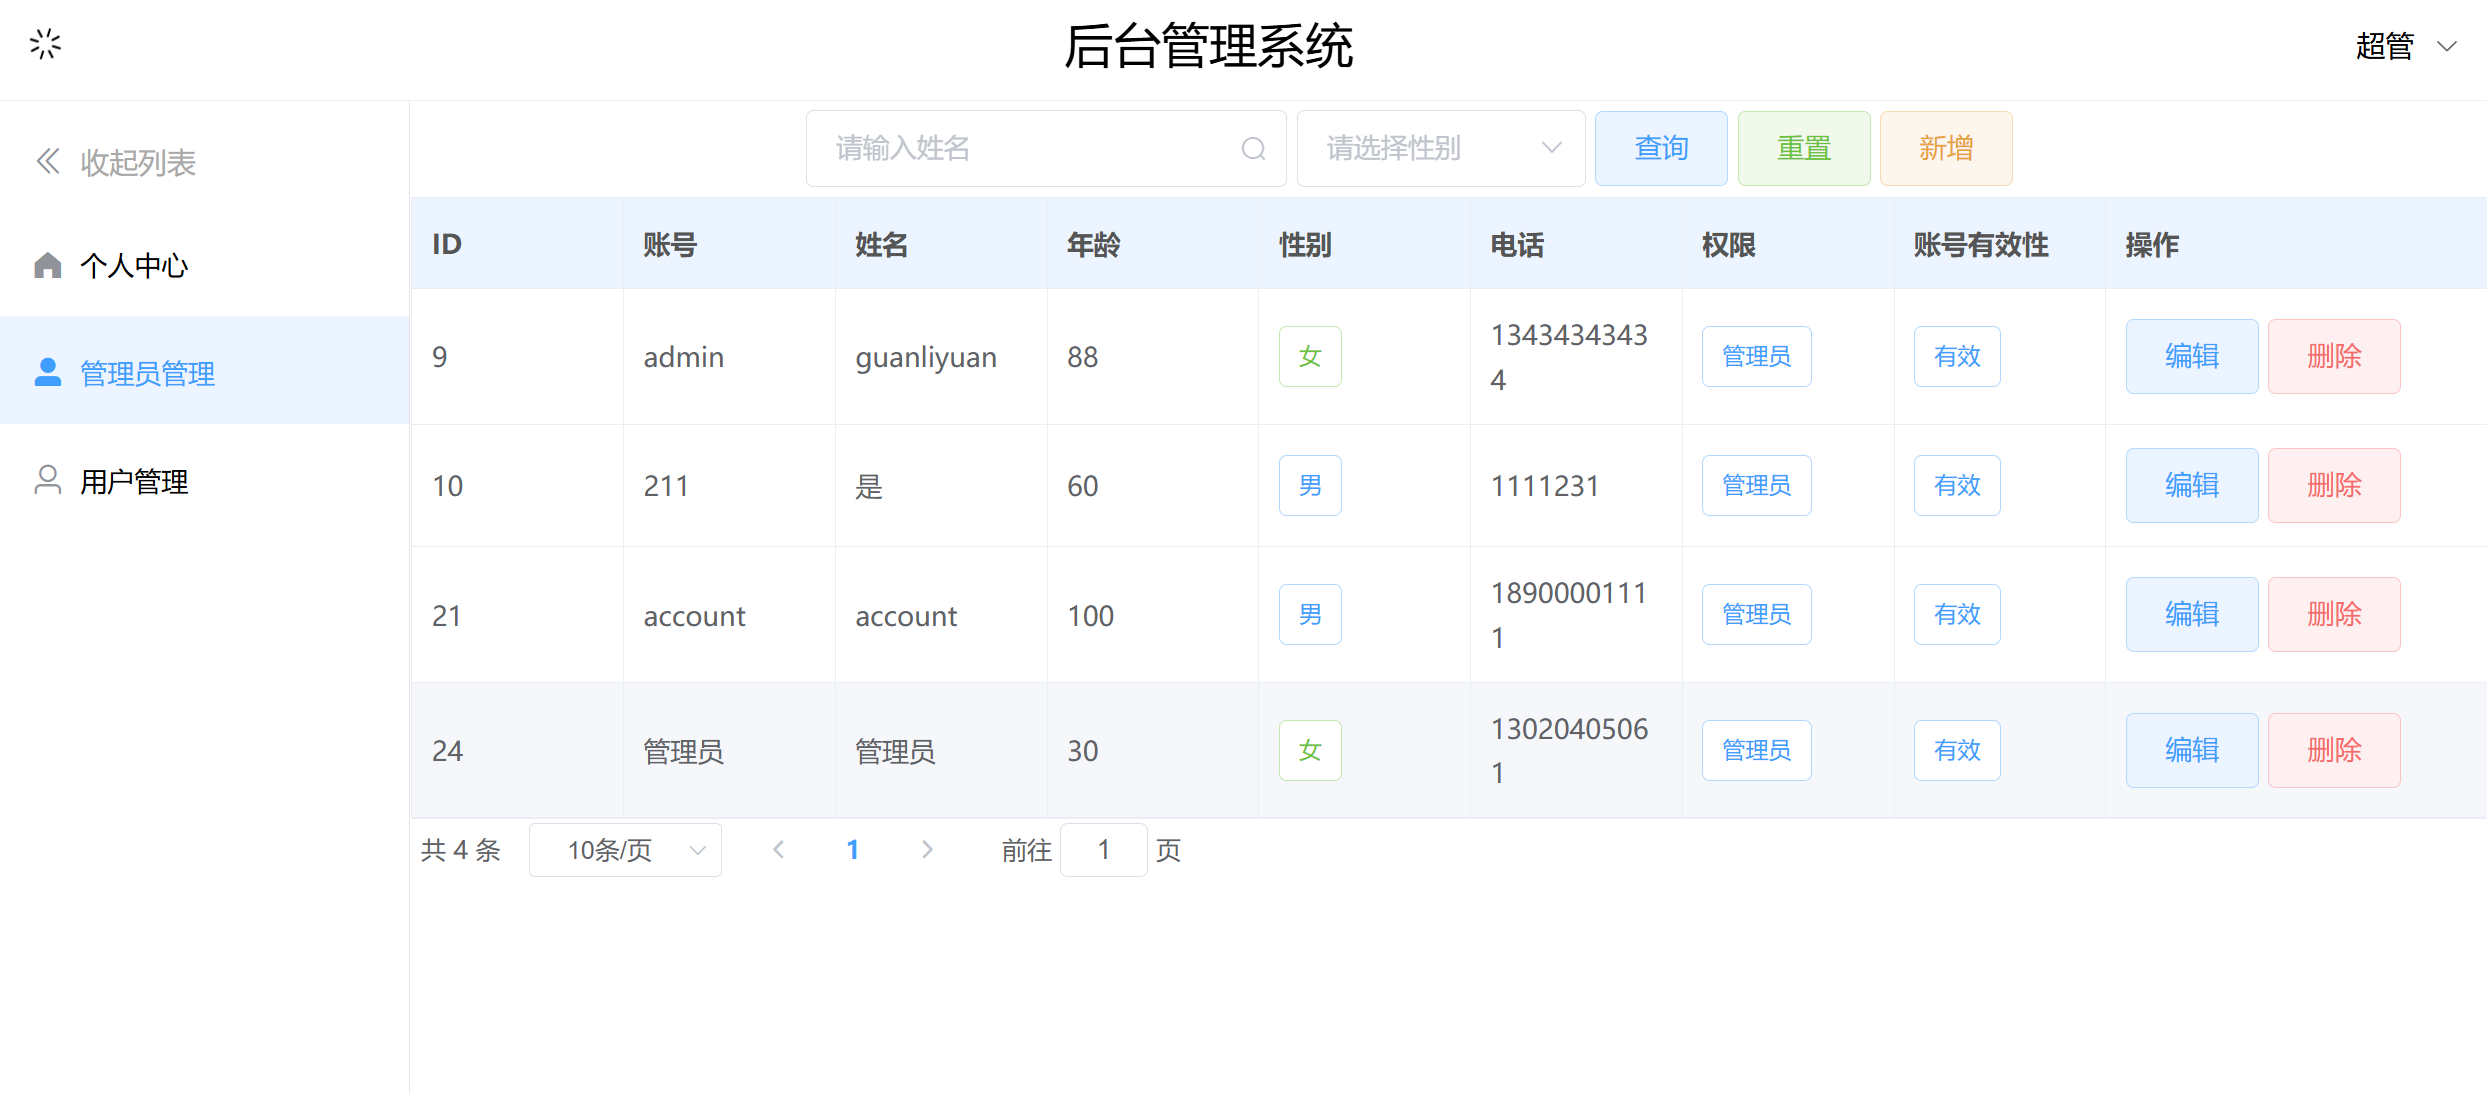
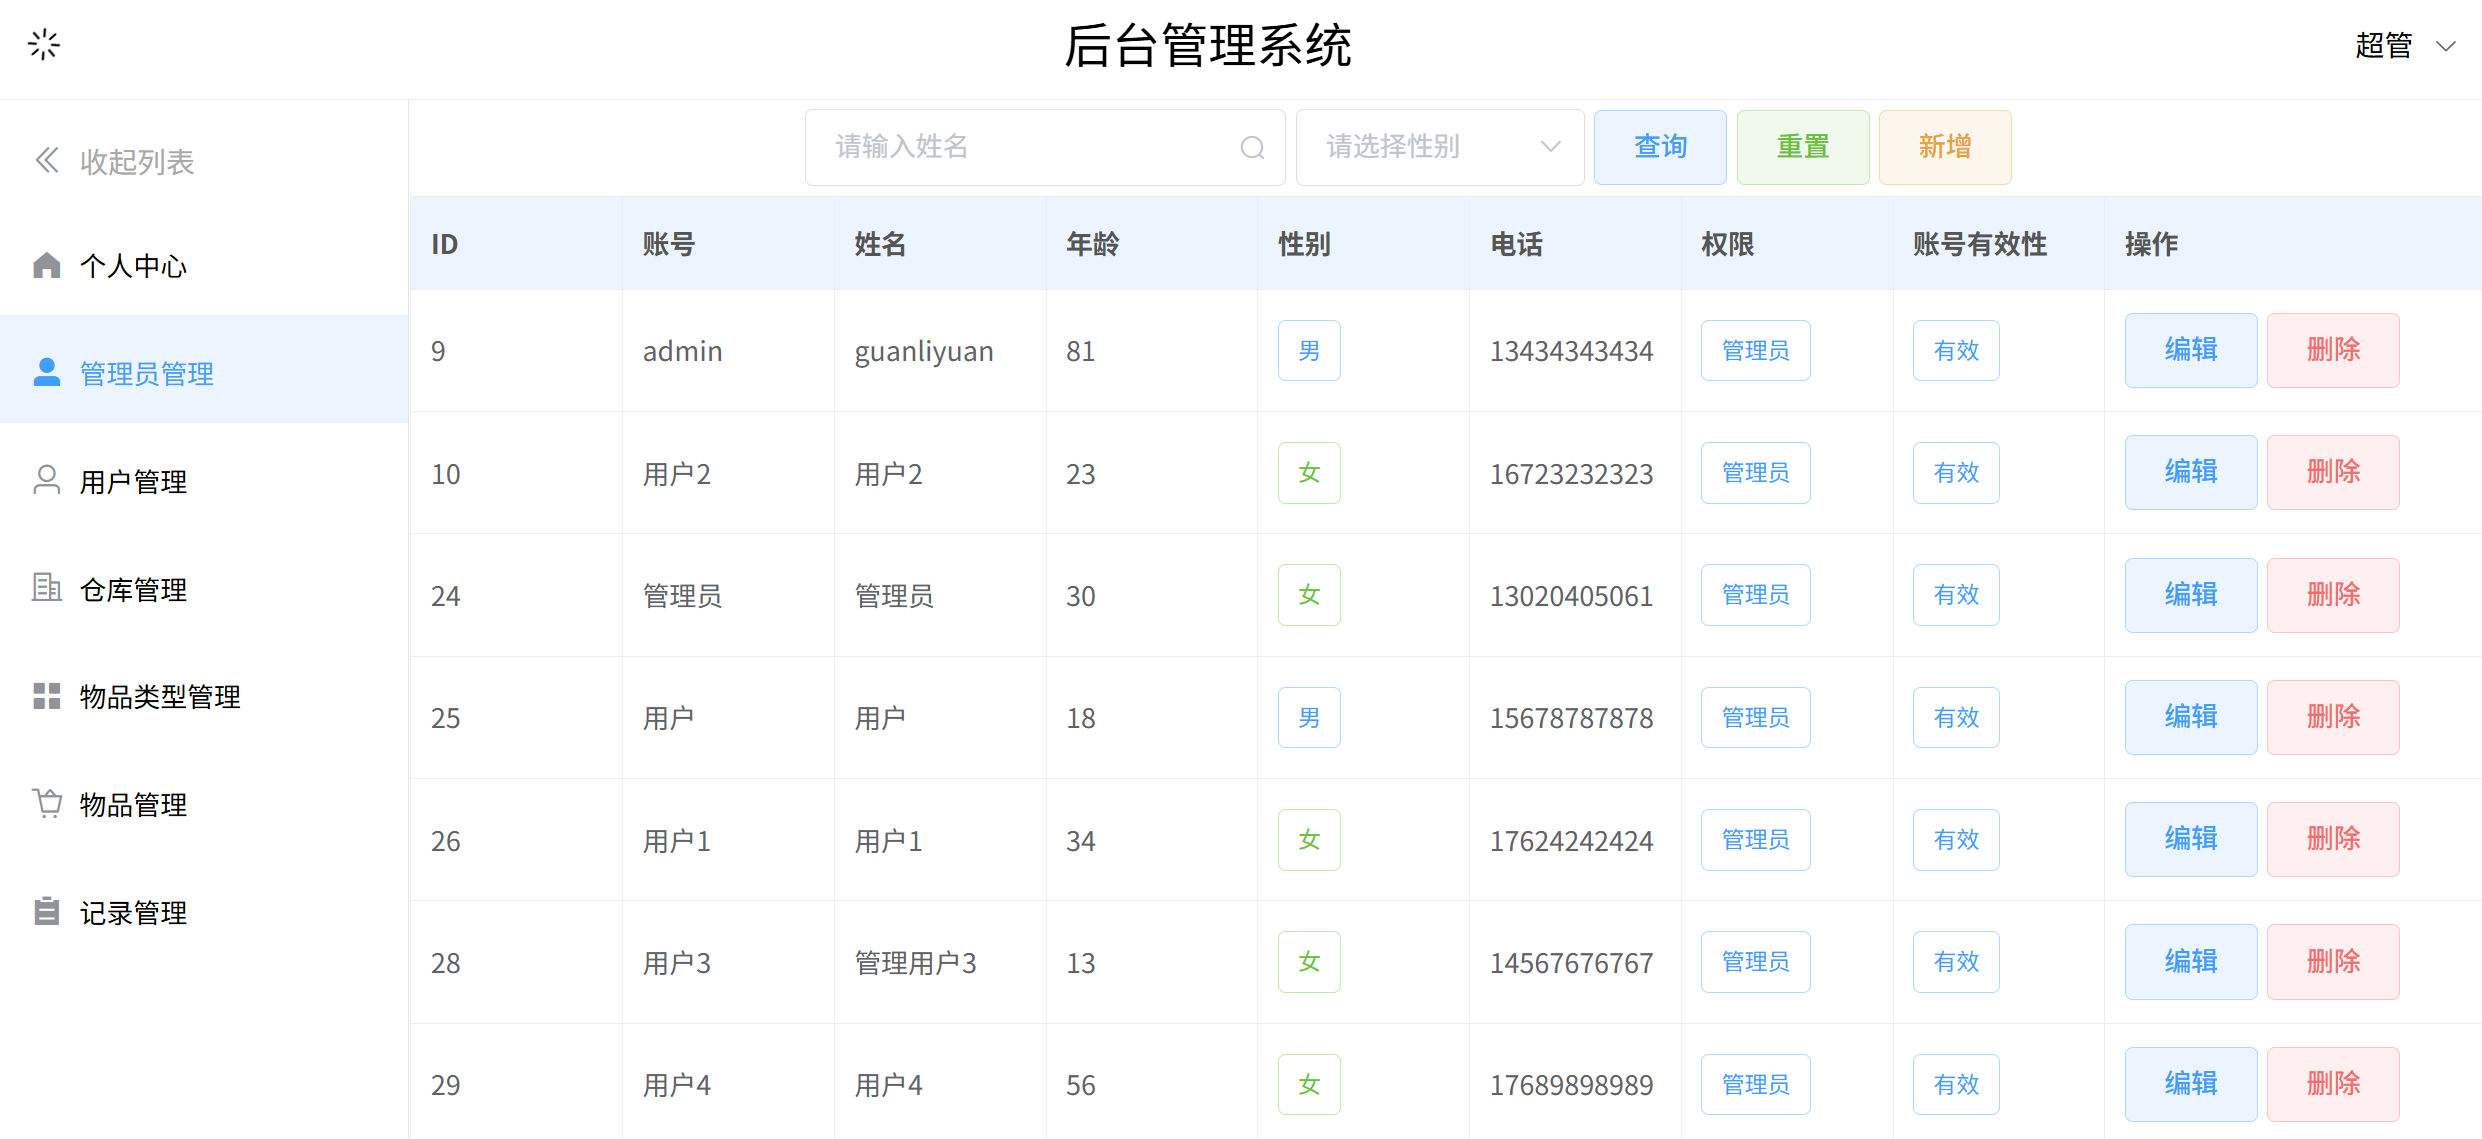
add normal user register; main code complete; adjust introduction file and pictures

diff --git a/storehouse-frontend/src/register/Register.vue b/storehouse-frontend/src/register/Register.vue
@@ -1,0 +1,211 @@
+<script>
+export default{
+  name:'Register',
+
+  data(){
+    let checkAge = (rule, value, callback) => {
+      if(value>150) {
+        callback(new Error('年龄太大'));
+      }
+      else{
+        callback();
+      }
+    }
+
+    let checkAccount = (rule, value, callback) => {
+      if(this.form.id){
+        return callback();
+      }
+      this.$axios.get(this.$httpUrl + "/user/findByAccount?account=" + this.form.account).then(res => res.data).then(res => {
+        if(res.code != 200){
+          callback();
+        }
+        else {
+          callback(new Error('账号已存在'));
+        }
+      })
+    }
+
+    return {
+      confirm_disabled: false,
+      form:{
+        id: '',
+        account:'',
+        name:'',
+        password:'',
+        age:'',
+        gender:'',
+        phone:'',
+        roleId: '2'
+      },
+      rules: {
+        account: [
+          {required: true, message: '请输入账号', trigger: 'blur'},
+          {min: 1, max: 12, message: '长度在 1 到 12 个字符', trigger: 'blur'},
+          {validator: checkAccount, trigger: 'blur'}
+        ],
+        name: [
+          { required: true, message: '请输入姓名', trigger: 'blur' },
+          { min: 1, max: 12, message: '长度在 1 到 12 个字符', trigger: 'blur' }
+        ],
+        password: [
+          { required: true, message: '请输入密码', trigger: 'blur' },
+          { min: 3, max: 12, message: '长度在 3 到 12 个字符', trigger: 'blur' }
+        ],
+        age: [
+          { required: true, message: '请输入年龄', trigger: 'blur' },
+          { min: 1, max: 3, message: '长度在 1 到 3 位', trigger: 'blur' },
+          { pattern: /^([1-9][0-9]*){1,3}$/, message: '请输入正确的年龄', trigger: 'blur' },
+          { validator:checkAge, trigger: 'blur' }
+        ],
+        gender: [
+          { required: true, message: '请选择性别', trigger: 'blur' }
+        ],
+        phone: [
+          { required: true, message: '请输入电话', trigger: 'blur' },
+          { pattern: /^1[3|4|5|6|7|8|9][0-9]\d{8}$/, message: '请输入正确的电话', trigger: 'blur' }
+        ]
+      },
+    }
+  },
+
+  methods: {
+    confirm(){
+      this.confirm_disabled = true;
+      this.$refs.form.validate((valid) => {
+        if (valid) {
+          this.$axios.post(this.$httpUrl+'/user/save',this.form).then(res=>res.data).then(res=>{
+            if(res.code == 200){
+              this.$message({
+                message: '新增用户成功，自动跳转到登录页面',
+                type: 'success'
+              });
+
+              this.form.id = '';
+              this.form.account = '';
+              this.form.name = '';
+              this.form.password = '';
+              this.form.age = '';
+              this.form.gender = '';
+              this.form.phone = '';
+              this.form.roleId = '2';
+
+              this.$router.replace('/')
+            }
+            else{
+              this.confirm_disabled = false;
+              alert('新增用户失败，请检查后端');
+              return false;
+            }
+          })
+        }
+        else {
+          this.confirm_disabled = false;
+          alert('新增用户失败，请检查输入');
+          return false;
+        }
+      });
+    },
+
+    jumpLogin(){
+      this.$router.replace('/');
+    }
+
+  }
+}
+
+</script>
+
+<template>
+  <div class="loginbody">
+    <div class="logindiv">
+      <div class="logincontent">
+        <h1 class="logintitle">普通用户注册</h1>
+
+        <el-form ref="form" :rules="rules" :model="form" label-width="100px">
+          <el-form-item label="账号：" prop="account">
+            <el-col :span="18">
+              <el-input v-model="form.account"></el-input>
+            </el-col>
+          </el-form-item>
+          <el-form-item label="名字：" prop="name">
+            <el-col :span="18">
+              <el-input v-model="form.name"></el-input>
+            </el-col>
+          </el-form-item>
+          <el-form-item label="密码：" prop="password">
+            <el-col :span="18">
+              <el-input v-model="form.password"></el-input>
+            </el-col>
+          </el-form-item>
+          <el-form-item label="年龄：" prop="age">
+            <el-col :span="18">
+              <el-input v-model="form.age"></el-input>
+            </el-col>
+          </el-form-item>
+          <el-form-item label="性别：" prop="gender">
+            <el-radio-group v-model="form.gender">
+              <el-radio label="1">男</el-radio>
+              <el-radio label="0">女</el-radio>
+            </el-radio-group>
+          </el-form-item>
+          <el-form-item label="电话：" prop="phone">
+            <el-col :span="18">
+              <el-input v-model="form.phone"></el-input>
+            </el-col>
+          </el-form-item>
+          <el-form-item>
+            <el-button style="width: 225px" type="primary" @click="confirm" :disabled="confirm_disabled">确 定</el-button>
+          </el-form-item>
+        </el-form>
+
+        <p @click="jumpLogin" class="mylink">已有账号？点此回到登录页面</p>
+      </div>
+    </div>
+  </div>
+</template>
+
+<style scoped>
+  .loginbody{
+    top: 0;
+    position: absolute;
+    width: 100%;
+    height: 100%;
+    background-color: #ecf5ff;
+  }
+
+  .logindiv{
+    position: absolute;
+    top: 34%;
+    left: 53%;
+    margin-top: -200px;
+    margin-left: -250px;
+    width: 450px;
+    height: 600px;
+    background-color: #fff;
+    border-radius: 5%;
+  }
+
+  .logincontent{
+    position: absolute;
+    width: 400px;
+    height: 250px;
+    top: 25px;
+    left: 25px;
+  }
+
+  .logintitle{
+    margin: 20px 0;
+    text-align: center;
+  }
+
+  .mylink{
+    margin-left: 99px;
+    font-size: 17.5px;
+  }
+
+  .mylink:hover{
+    color: blue;
+    cursor: pointer;
+  }
+</style>

diff --git a/storehouse-frontend/src/login/Login.vue b/storehouse-frontend/src/login/Login.vue
@@ -45,6 +45,10 @@
         });
       },
 
+      jumpRegister(){
+        this.$router.replace('/Register')
+      }
+
     }
   }
 
@@ -55,6 +59,7 @@
     <div class="logindiv">
       <div class="logincontent">
         <h1 class="logintitle">登录到系统</h1>
+
         <el-form :model="loginForm" label-width="100px"
                  :rules="rules" ref="loginForm">
           <el-form-item label="账号" prop="account" style="margin-left: 5px">
@@ -66,16 +71,18 @@
                       show-password autocomplete="off" size="small"
                       @keyup.enter.native="confirm"></el-input>
           </el-form-item>
-          <el-form-item style="margin-left: 62px">
-            <el-button type="primary" @click="confirm" :disabled="confirm_disabled">确 定</el-button>
+          <el-form-item style="margin-left: 5px">
+            <el-button style="width: 200px" type="primary" @click="confirm" :disabled="confirm_disabled">确 定</el-button>
           </el-form-item>
         </el-form>
+
+        <p @click="jumpRegister" class="mylink">还没有账号？点此注册普通用户账号</p>
       </div>
     </div>
   </div>
 </template>
 
-<style>
+<style scoped>
   .loginbody{
     top: 0;
     position: absolute;
@@ -91,7 +98,7 @@
     margin-top: -200px;
     margin-left: -250px;
     width: 450px;
-    height: 330px;
+    height: 350px;
     background-color: #fff;
     border-radius: 5%;
   }
@@ -107,5 +114,15 @@
   .logintitle{
     margin: 20px 0;
     text-align: center;
+  }
+
+  .mylink{
+    margin-left: 105px;
+    font-size: 12.5px;
+  }
+
+  .mylink:hover{
+    color: blue;
+    cursor: pointer;
   }
 </style>

diff --git a/storehouse-frontend/src/router/index.js b/storehouse-frontend/src/router/index.js
@@ -7,6 +7,11 @@ const routes = [
         component: () => import('../login/Login')
     },
     {
+        path: '/Register',
+        name: '注册',
+        component: () => import('../register/Register')
+    },
+    {
         path: '/Index',
         name: '主页',
         component: () => import('../background/Index'),

diff --git a/storehouse-frontend/src/usercenter/DataUtils.vue b/storehouse-frontend/src/usercenter/DataUtils.vue
@@ -73,7 +73,7 @@
   </div>
 </template>
 
-<style>
+<style scoped>
   .split{
     animation: shark 1s step-end infinite;
     vertical-align: center;

diff --git a/storehouse-frontend/src/usercenter/Center.vue b/storehouse-frontend/src/usercenter/Center.vue
@@ -84,7 +84,7 @@
   </div>
 </template>
 
-<style>
+<style scoped>
   .my-content {
     background: #ecf5ff;
     min-width: 90px;

diff --git a/README.md b/README.md
@@ -1,13 +1,18 @@
 ### 项目说明
-基于网上资料学习后，创建的一个前后端分离的后台管理系统项目，前端使用Vue框架，后端使用SpringBoot框架，数据库使用MySQL
+基于学习，复现并改进的一个前后端分离的后台管理系统项目，前端使用Vue框架，后端使用SpringBoot框架，数据库使用MySQL
 
 ### 项目预览
 <img alt="login" src="./display-image/login.png" style="width: 800px; height: 400px">
-<img alt="user-center" src="./display-image/index.png" style="width: 800px; height: 400px">
+<img alt="register" src="./display-image/register.png" style="width: 800px; height: 400px">
+<img alt="user-center-superadmin" src="./display-image/index1.png" style="width: 800px; height: 400px">
+<img alt="user-center-admin" src="./display-image/index2.png" style="width: 800px; height: 400px">
+<img alt="user-center-normaluser" src="./display-image/index3.png" style="width: 800px; height: 400px">
 <img alt="admin-manage" src="./display-image/adminmanage.png" style="width: 800px; height: 400px">
 <img alt="user-manage" src="./display-image/usermanage.png" style="width: 800px; height: 400px">
-<img alt="add-or-modify-user" src="./display-image/addormod.png" style="width: 800px; height: 400px">
-<img alt="logout" src="./display-image/logout.png" style="width: 800px; height: 400px">
+<img alt="storehouse-manage" src="./display-image/storagemanage.png" style="width: 800px; height: 400px">
+<img alt="goods-type-manage" src="./display-image/goodstypemanage.png" style="width: 800px; height: 400px">
+<img alt="goods-manage" src="./display-image/goodsmanage.png" style="width: 800px; height: 400px">
+<img alt="record-manage" src="./display-image/recordmanage.png" style="width: 800px; height: 400px">
 
 ### 项目技术
 前端：
@@ -26,23 +31,33 @@
 
 ### 已实现功能
 - 用户登录
+- 普通用户注册
+- 登录注册跳转
 - 用户登出，有确认弹窗
+
 - 根据用户信息，显示用户中心
 - 用户中心显示当前时间
+
 - 根据用户权限，动态显示侧边栏用户管理功能
 - 侧边栏收起展开
+
 - 超级管理员的管理员管理功能，超级管理员和管理员的普通用户管理功能
-- 用户搜索查询、条件查询以及查询重置
-- 已查询出的用户数据的分页管理
-- 新建用户、编辑已有用户，有弹窗
-- 删除已有用户，有确认提示
+- 超级管理员和管理员的仓库管理、物品类型管理功能
+- 所有用户的物品管理、记录管理功能
+- 优化权限控制，普通用户只能查看物品和自己的记录，管理员以上才能对物品和记录进行增删操作
+
+- 管理内容的搜索查询、条件查询以及查询重置
+- 已查询出的数据的分页管理
+- 增加管理内容
+- 删除管理内容，有确认提示
+
+- 物品管理的出入库操作
+- 物品管理关联记录管理的出入库记录操作
 
 ### 待实现功能
-未来可能实现的功能：
-- 普通用户注册界面
-- 仓库管理或其他内容管理
+想实现的功能都大致完成了，后续可能将项目部署到服务器上，并配置公网访问途径
 
-### 下载运行
+### 本地部署
 
 本项目使用IDEA进行后端开发，WebStorm进行前端开发；后端使用Maven 3.8.8进行包管理，前端使用node版本为18.20.6
 
@@ -67,6 +82,8 @@ npm i vuex@3.0.0
 ```
 
 ### 其他
-项目的样式还需要进一步调整
+正在整理开发流程、前后端接口等信息，后续也许会上传总结文档
 
 为方便上传，前后端子项目的.git目录已经删除
+
+由于完整文件大小过大，.gitignore没有删除，本地部署时需要自行安装库和依赖
